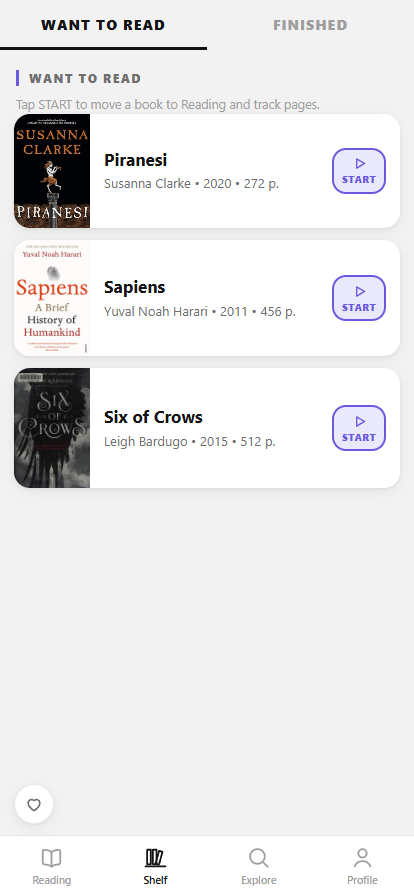
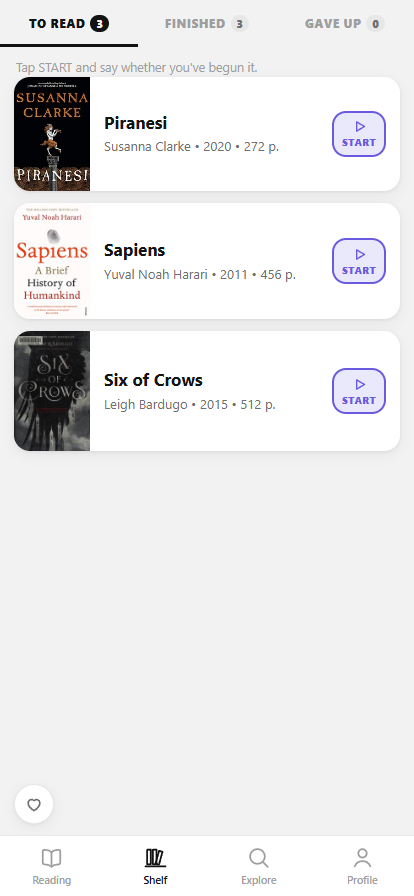
BooksTable: refresh screenshots for the new shelf
Three counted tabs, and a shot of the sheet that START opens.

diff --git a/products/books-table/index.html b/products/books-table/index.html
@@ -86,9 +86,14 @@
           <figcaption>Reading — where you are in each book, and one tap to move</figcaption>
         </figure>
         <figure>
-          <a class="shot shot-light" href="assets/shelf-light.png" target="_blank" rel="noopener" title="Open full size"><img src="assets/shelf-light.png" width="414" height="896" alt="The Want to read shelf listing Piranesi, Sapiens and Six of Crows, each with a START button." loading="lazy" decoding="async" /></a>
-          <a class="shot shot-dark" href="assets/shelf-dark.png" target="_blank" rel="noopener" title="Open full size"><img src="assets/shelf-dark.png" width="414" height="896" alt="The Want to read shelf listing Piranesi, Sapiens and Six of Crows, each with a START button. Shown in the app's dark theme." loading="lazy" decoding="async" /></a>
-          <figcaption>Shelf — what's waiting, one tap from being started</figcaption>
+          <a class="shot shot-light" href="assets/shelf-light.png" target="_blank" rel="noopener" title="Open full size"><img src="assets/shelf-light.png" width="414" height="896" alt="The Shelf tab with three tabs carrying counts — To read 3, Finished 3, Gave up 0 — listing Piranesi, Sapiens and Six of Crows, each with a START button." loading="lazy" decoding="async" /></a>
+          <a class="shot shot-dark" href="assets/shelf-dark.png" target="_blank" rel="noopener" title="Open full size"><img src="assets/shelf-dark.png" width="414" height="896" alt="The Shelf tab with three tabs carrying counts — To read 3, Finished 3, Gave up 0 — listing Piranesi, Sapiens and Six of Crows, each with a START button. Shown in the app's dark theme." loading="lazy" decoding="async" /></a>
+          <figcaption>Shelf — three piles, each tab saying how big it is</figcaption>
+        </figure>
+        <figure>
+          <a class="shot shot-light" href="assets/choice-light.png" target="_blank" rel="noopener" title="Open full size"><img src="assets/choice-light.png" width="414" height="896" alt="A sheet asking “Where should this one go?” for Piranesi, offering “I'm reading it now — opens Reading, where a tap logs the pages” and “I've already read it — straight to the Finished shelf”." loading="lazy" decoding="async" /></a>
+          <a class="shot shot-dark" href="assets/choice-dark.png" target="_blank" rel="noopener" title="Open full size"><img src="assets/choice-dark.png" width="414" height="896" alt="A sheet asking “Where should this one go?” for Piranesi, offering “I'm reading it now — opens Reading, where a tap logs the pages” and “I've already read it — straight to the Finished shelf”. Shown in the app's dark theme." loading="lazy" decoding="async" /></a>
+          <figcaption>START asks what happened — then takes you where the book went</figcaption>
         </figure>
         <figure>
           <a class="shot shot-light" href="assets/explore-light.png" target="_blank" rel="noopener" title="Open full size"><img src="assets/explore-light.png" width="414" height="896" alt="A For you list where each suggestion carries a line explaining it, such as “More by Andy Weir” or “More in Science Fiction”." loading="lazy" decoding="async" /></a>
@@ -125,6 +130,11 @@
           <span class="feature-icon" aria-hidden="true">⏳</span>
           <h3>How much is left, in hours</h3>
           <p>“184 pages left — about 4h 36m at an average pace.” An estimate, and the app says so rather than pretending to know how fast you read.</p>
+        </li>
+        <li>
+          <span class="feature-icon" aria-hidden="true">🗂</span>
+          <h3>A shelf that tells you where things are</h3>
+          <p>To read, Finished and Gave up, each tab carrying its count. START asks whether you've begun the book or already read it, then opens the tab it moved to — no hunting for where it went.</p>
         </li>
         <li>
           <span class="feature-icon" aria-hidden="true">✨</span>
